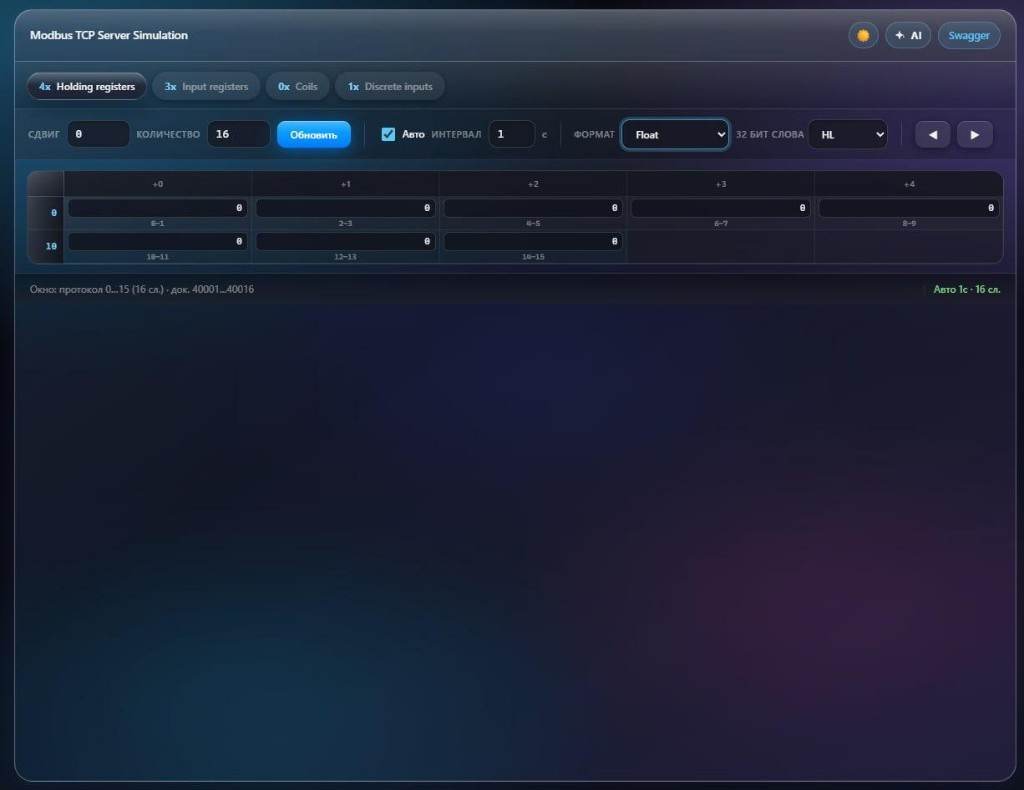
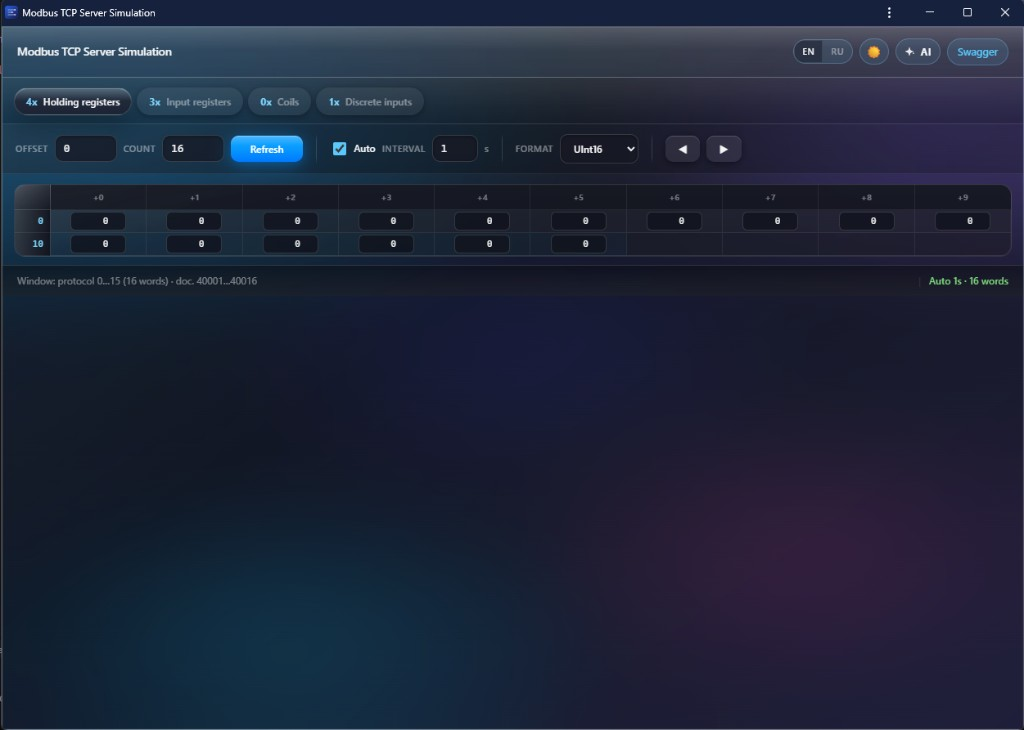
chore: release 2.1.0 — update UI screenshot and image tags

diff --git a/README.md b/README.md
@@ -7,7 +7,7 @@
 [![Rust](https://img.shields.io/badge/built%20with-Rust-orange?logo=rust&logoColor=white)](https://www.rust-lang.org/)
 [![License: MIT](https://img.shields.io/badge/License-MIT-yellow.svg)](https://opensource.org/licenses/MIT)
 
-**In-memory store · Web UI · REST · Swagger · MCP over HTTP**
+**Modbus TCP Server ·  In-memory store · Web UI · REST · Swagger · MCP over HTTP**
 
 <br/>
 
@@ -27,8 +27,9 @@ A **Modbus TCP** simulator with a **single in-memory store**: web UI, **REST API
 
 - **Modbus TCP** — holding/input registers, coils, and discrete inputs.
 - **REST** — the same data as Modbus and MCP.
-- **Web UI** (`/ui/`) — register matrix, UInt16/Int32/float/double formats, bitmask, auto-refresh with configurable interval, MCP hint with `mcp.json` example and download.
+- **Web UI** (`/ui/`) — register matrix, UInt16/Int32/float/double formats, bitmask, auto-refresh with configurable interval, MCP hint with `mcp.json` example and download. **English** (default) and **Russian** via **EN** / **RU** in the title bar; choice is stored in the browser.
 - **MCP** — Streamable HTTP at `/mcp`, tools such as `modbus_read_holding_registers`, `modbus_write_holding_registers`, and more.
+- **Installable PWA** — open the UI in **Chrome** or **Edge** at `http://127.0.0.1:9090/ui/` (or your host); after the page loads, use **Install** in the address bar (same idea as **YouTube** / **Spotify** web: standalone window, no tabs). Uses `manifest.json` + a minimal service worker under `/ui/`.
 
 ## 📋 Requirements
 
@@ -39,16 +40,16 @@ A **Modbus TCP** simulator with a **single in-memory store**: web UI, **REST API
 
 ### Docker Hub image (recommended)
 
-Current tag: **`2.0.0`**.
+Current tag: **`2.1.0`**.
 
 ```bash
-docker pull allexd2010/modbus-server-sim:2.0.0
+docker pull allexd2010/modbus-server-sim:2.1.0
 
 docker run -d --name modbus-sim \
   -p 9090:9090 \
   -p 502:502 \
   -p 18081:8081 \
-  allexd2010/modbus-server-sim:2.0.0
+  allexd2010/modbus-server-sim:2.1.0
 ```
 
 | Host | Container | Purpose |
@@ -62,7 +63,7 @@ docker run -d --name modbus-sim \
 Build the image locally:
 
 ```bash
-docker build -t allexd2010/modbus-server-sim:2.0.0 .
+docker build -t allexd2010/modbus-server-sim:2.1.0 .
 ```
 
 ### Docker Compose
@@ -80,6 +81,14 @@ cargo run --release
 ```
 
 Defaults: web **9090**, Modbus **502**, MCP **8081** (see environment variables below). UI: `http://127.0.0.1:9090/ui/`.
+
+### Install as app (PWA)
+
+1. Start the server (`cargo run --release` or Docker with port **9090** published).
+2. Open **`http://127.0.0.1:9090/ui/`** in **Chrome** or **Microsoft Edge** (secure context: `localhost` / `127.0.0.1` works).
+3. When the browser shows **Install** in the address bar (or menu → *Install this site as an app*), confirm — the UI opens in its **own window** without the normal browser toolbar.
+
+The installed app still talks to the **same origin** as the page; keep the backend running. For a remote server, use that host in the URL before installing.
 
 ## 🌐 Services after startup
 
@@ -154,7 +163,7 @@ Disable MCP: `MCP_SERVER_PORT=0`.
 ## 📦 Image & registry
 
 - Docker Hub: `allexd2010/modbus-server-sim`
-- Tags: e.g. **`2.0.0`**
+- Tags: e.g. **`2.1.0`**
 
 ## 📄 License
 
@@ -162,4 +171,4 @@ MIT
 
 ---
 
-<p align="center"><strong>Documentation</strong> · image tag <code>2.0.0</code></p>
+<p align="center"><strong>Documentation</strong> · image tag <code>2.1.0</code></p>
